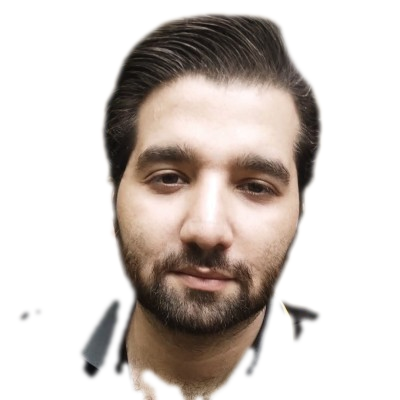
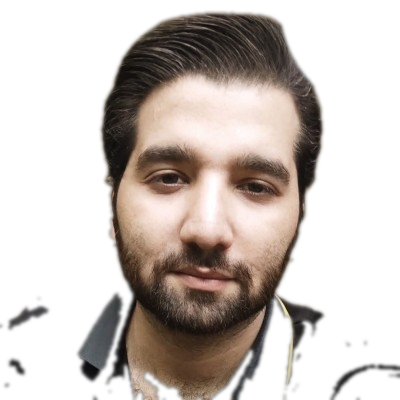
Clean photo cutout, move hero photo up

diff --git a/index.html b/index.html
@@ -36,7 +36,7 @@
 
   .kicker { color: var(--accent); font-size: 13px; letter-spacing: 3px; text-transform: uppercase; margin-bottom: 24px; }
   .hero-grid { display: grid; grid-template-columns: 1.15fr .85fr; gap: 48px; align-items: center; }
-  .hero-visual { position: relative; }
+  .hero-visual { position: relative; margin-top: -28px; }
   .hero-visual::before { content: ''; position: absolute; inset: 8% 4%; background: radial-gradient(closest-side, rgba(215,253,68,.14), transparent 72%); z-index: 0; }
   .hero-visual img { position: relative; z-index: 1; width: 100%; max-width: 440px; display: block; margin: 0 auto; filter: drop-shadow(0 34px 60px rgba(0,0,0,.65)); animation: float 7s ease-in-out infinite; }
   @keyframes float { 0%,100% { transform: translateY(0); } 50% { transform: translateY(-14px); } }
@@ -139,7 +139,7 @@
     nav ul { display: none; }
     header.hero { padding: 140px 0 70px; }
     .hero-grid { grid-template-columns: 1fr; gap: 36px; }
-    .hero-visual { order: -1; }
+    .hero-visual { order: -1; margin-top: 0; }
     .hero-visual img { max-width: 300px; }
     .contact-box { padding: 48px 24px; }
     .jobs li { flex-direction: column; gap: 4px; }
